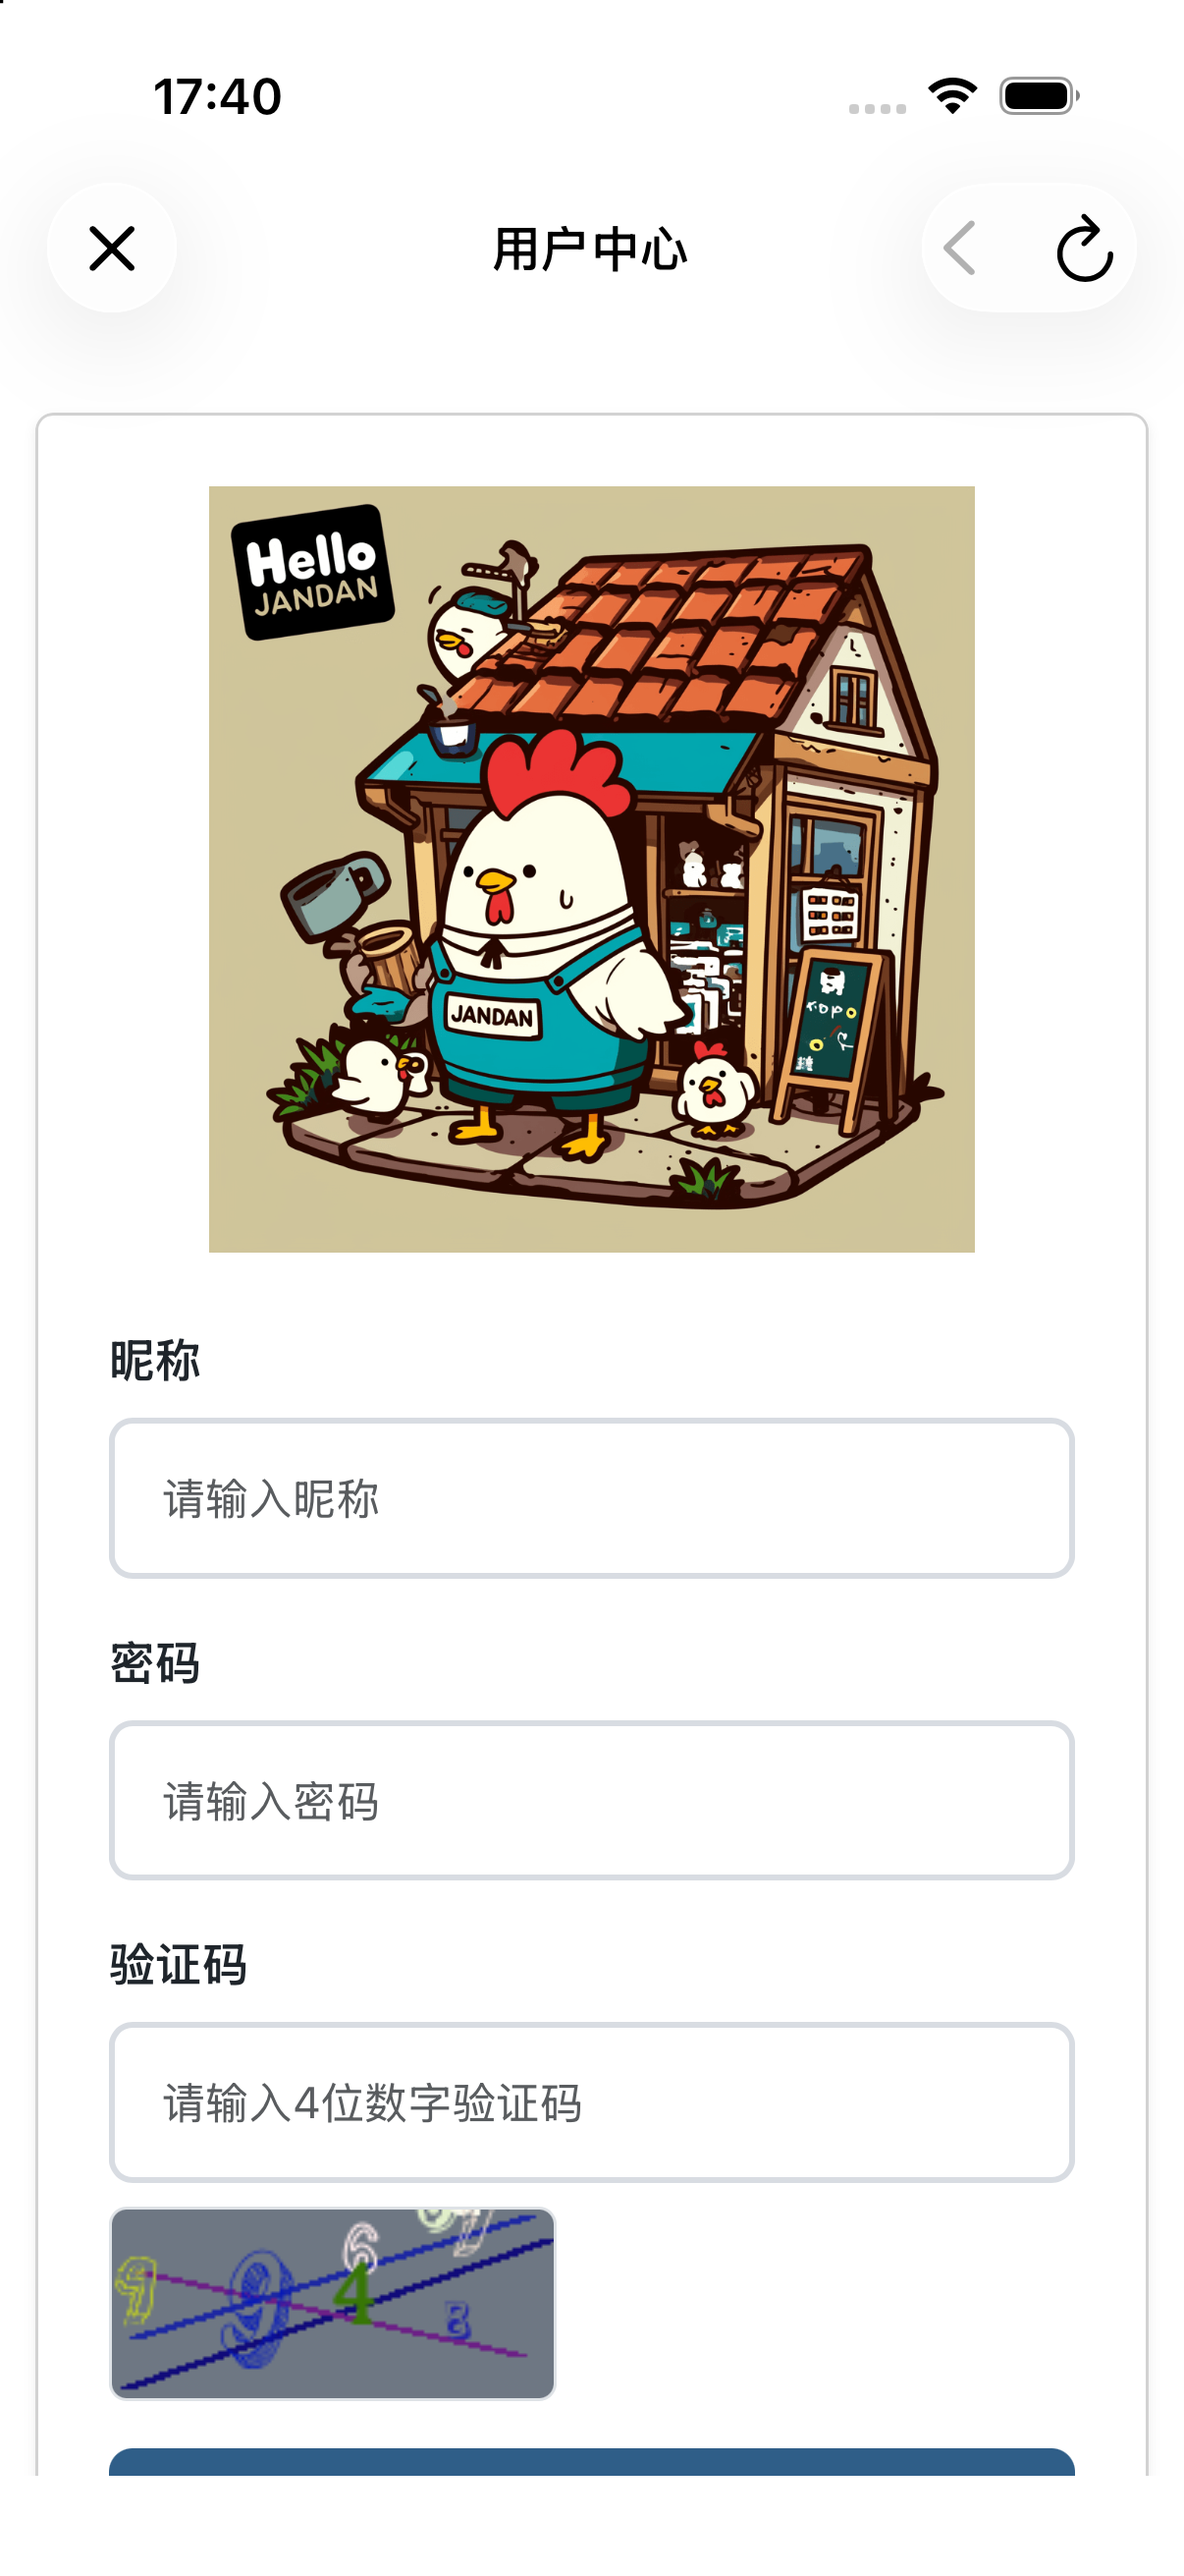
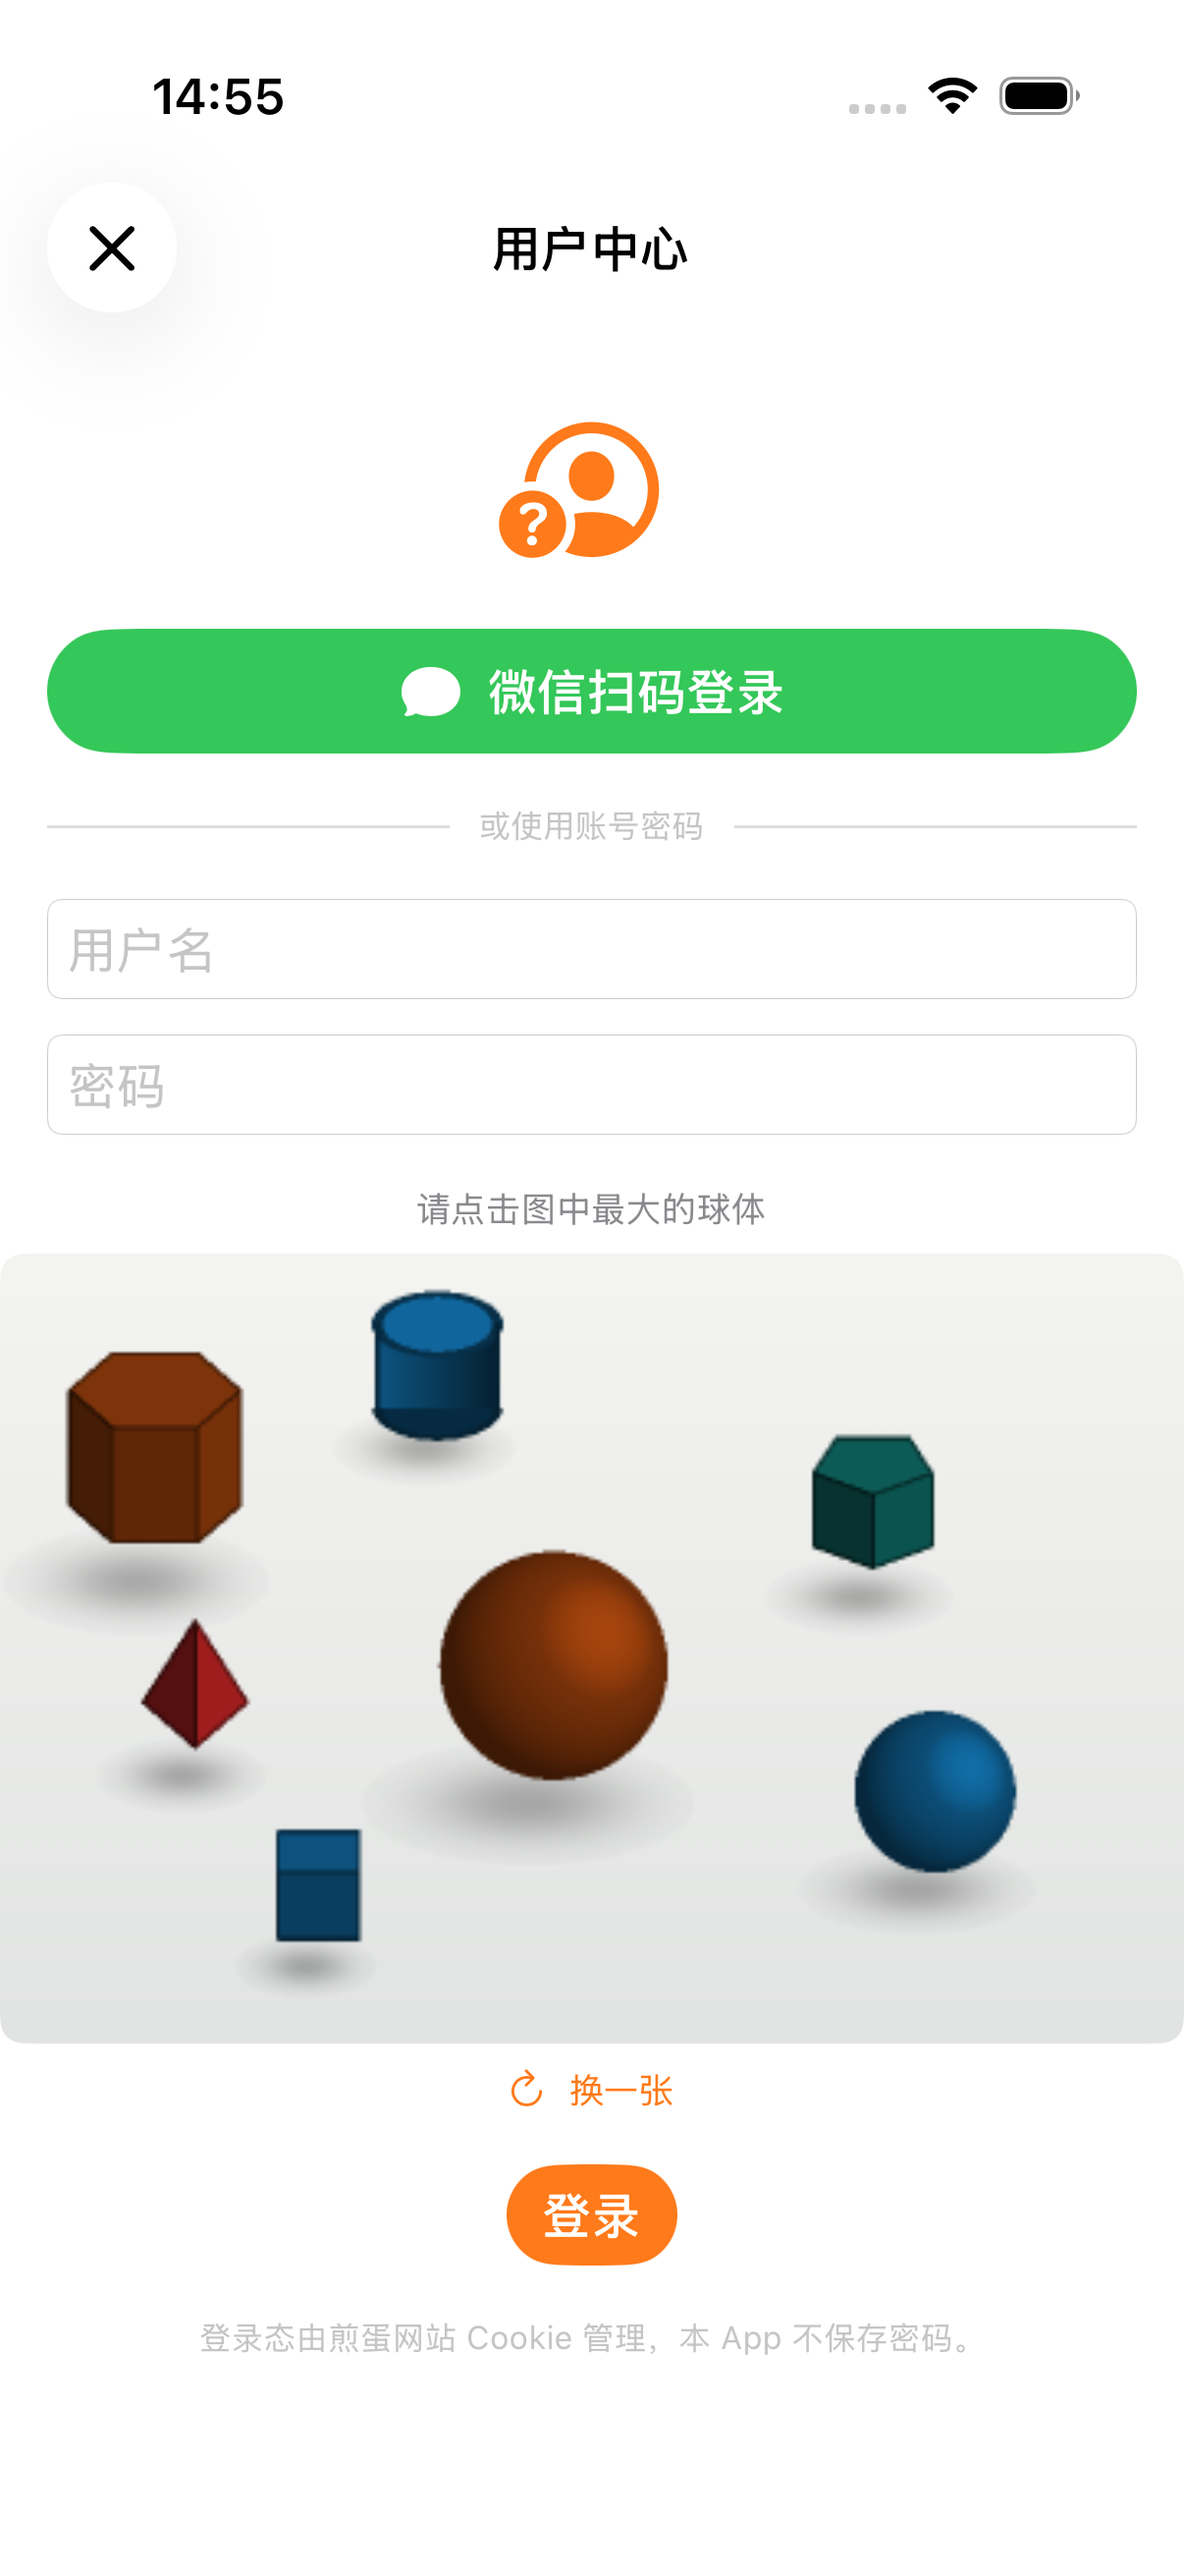
docs: 更新 README 全文并替换为当前原生界面截图

diff --git a/README.md b/README.md
@@ -8,32 +8,37 @@
 
 ## 效果
 
-| 首页（浅色） | 夜间模式 | 用户中心（独立页） |
-| :---: | :---: | :---: |
-| <img src="docs/screenshots/home.png" width="230" alt="首页"> | <img src="docs/screenshots/dark.png" width="230" alt="夜间模式"> | <img src="docs/screenshots/account.png" width="230" alt="用户中心"> |
+iPhone 17 Pro / iOS 26.5 模拟器实拍（2026-11-27），当前原生三频道界面 + 系统 `TabView` 液态玻璃：
 
-截图为旧版 WebView 架构存档，仅作视觉参考；当前界面已是原生三频道布局。
+| 首页 | 无聊图（图片流） | 夜间模式 |
+| :---: | :---: | :---: |
+| <img src="docs/screenshots/home.png" width="220" alt="首页"> | <img src="docs/screenshots/photo.png" width="220" alt="无聊图"> | <img src="docs/screenshots/dark.png" width="220" alt="夜间模式"> |
+
+| 设置 | 用户中心（未登录时的登录页） |
+| :---: | :---: |
+| <img src="docs/screenshots/settings.png" width="220" alt="设置"> | <img src="docs/screenshots/account.png" width="220" alt="用户中心"> |
 
 ## 功能
 
 **频道与阅读**
 
 - 原生 `TabView`（iOS 18+ 自动液态玻璃）：首页 / 无聊图 / 女装 + 设置，共 4 个 Tab；每个频道独立 `FeedStore` 与 `NavigationStack`，切走再切回保留列表与浏览栈。
-- 首页按日期分组（Section header 吸顶），左侧大号评论数 + 标题 / 摘要 / 吐槽预览；图片流按原比例完整展开、不裁剪、不进全屏查看器。
-- 滚动到底自动翻页（带 350ms 去抖），下拉刷新，后台每分钟检查新内容并显示「有新内容」浮层。
-- 评论在图片下方**原地展开**，以评论区为锚点滚动；展开期间暂停预加载，避免行高变化打断滚动。
+- 首页按日期分组（Section header 吸顶），左侧大号评论数 + 标题 / 摘要 / 吐槽预览，不显示图片；图片流按原比例完整展开、不裁剪、不进全屏查看器。
+- 滚动到底自动翻页，下拉刷新，后台每分钟检查新内容并显示「有新内容」浮层。
+- 评论在图片下方**就地展开**：页面滚动位置不变，只向下长出评论行与输入框，顶部标题和图片不动；短暂延迟翻页，避免行高变化打断阅读。
 - 正文按 HTML 顺序渲染文字 / 图片 / 链接，支持常用 HTML 实体；正文字号 90%–130% 可调，夜间模式独立生效。
 
 **图片与 GIF**
 
 - GIF 默认只加载 600px 静态帧并暂停，点击后才加载同名 mp4 静音循环播放；老 CDN 无 mp4 时回退逐帧解码。
-- 长按分享下载 **large 原图**（GIF 分享动画版本）后交给系统分享面板，不分享链接或降采样图。
+- 长按分享下载 **large 原图**（GIF 分享动画版本）后交给系统分享面板，多图一次全部分享，不分享链接或降采样图。
 - 统一图片缓存：64MB 内存 + 512MB 磁盘 `URLCache`、解码位图 `NSCache`（按位图字节计费）、mp4 本地副本；设置页可查看占用并一键清除。
 
 **账号与互动**
 
-- 账号密码登录：图选验证码 → **Keccak-256** 密码哈希（站点实际用 `CryptoJS.SHA3(...,{outputLength:256})`，不是 FIPS 202 SHA3）→ Cookie 登录态；密码至少 6 位。
+- 账号密码登录：图选验证码 → **Keccak-256** 密码哈希（站点实际用 `CryptoJS.SHA3(...,{outputLength:256})`，不是 FIPS 202 SHA3）→ Cookie 登录态。
 - 微信扫码登录：App 内 `WKWebView` 打开网站扫码页，观察整条重定向链路并同步 Cookie，最后用 `/api/member/get_info` **实测登录态**才判定成功；退出登录同时清理 URLSession 与 WebView 两侧 Cookie。
+- 用户中心按站点位掩码展示真实身份（注册会员 1 / 核心会员 2 / 订阅会员 4 / 管理员 8，可叠加）：例如 `3` 显示「煎蛋核心会员、煎蛋注册会员」，不会误标成订阅会员；偏好云同步只对订阅位生效。
 - OO / XX 投票（请求成功后才更新数字，重复投票只给轻提示）、评论 / 吐槽发布（审核后可见）、举报、按昵称或 ID 屏蔽作者。
 - 收藏、消息通知（3 分钟轮询 + 分页 + 已读闭环）、阅读历史、作者个人主页、VIP 偏好云同步（屏蔽名单 + 显示设置）。
 
@@ -43,9 +48,10 @@
 | --- | --- |
 | 密码登录恒失败 | 站点 Nuxt 登录页 `LDv1WFtq.js` 调用 `C1RStTSn.js` 导出的 `CryptoJS.SHA3(pwd,{outputLength:256})`；打包的 crypto-js `_doFinalize` 只有 `0x01` + `0x80`，是旧 Keccak 而非 FIPS 202 的 `0x06`。`API/SHA3.swift` 按 Keccak-256 实现，与同款库 10 组向量（含 rate 边界）逐条一致 |
 | 写操作「假成功」 | 站点多数接口返回 `{code,msg,data}`，投票等老接口返回 `{error,msg}`。`JDAPI.JDResponse.validate` 统一识别 `code / error / success / status` 后再判 HTTP 状态，覆盖发布、收藏、标记已读、偏好同步 |
-| 点开评论乱跳 | `ScrollViewReader` 只能定位 List 的**顶层 row**，行内子视图的 `.id` 永远滚不到。评论区因此提升为独立 row；同时禁止展开期间连锁翻页（内容高度变化会打断滚动） |
+| 点开评论乱跳 / 刷新后翻页卡死 | 旧实现用 `ScrollViewReader` 定位行内子 id（永远滚不到），还会在展开时连锁翻页。现在评论区作为当前条下方的独立 row 插入，不做任何 `scrollTo`，`contentOffset` 不动；`LoadMoreSentinel.suppressUntil` 短暂延迟翻页，`FeedStore.epoch` 作废旧页响应，最多跳过 4 个重复页后给出可点重试 |
+| 会员身份误显示为订阅会员 | `membership` 是位掩码而非等级数值。`JDMembership` 统一位定义与文案，用户中心列出所有命中位；`PrefsStore.canSync` 同样改用订阅位判断，不再用魔法数 `&4` |
 | 单击 Tab 置顶高度不对 | 系统只滚到小标题态的 `-adjustedContentInset.top`，大标题展开态差一个导航栏高度。`TabTopFix` 纯观察 window 点击：用真实 `UITabBar` frame 判区域、用 `UINavigationBar` 高度算多拉距离、排除 WKWebView 内部 scrollView，系统动画结束后补一次置顶并精确归位 |
-| 滑动卡死 | 解码位图缓存按「像素 × 4 × 帧数」计费（旧实现按压缩后的 `data.count`），单帧大图降采样到 1600px，日期格式化器统一静态缓存，分组计算改 O(n) |
+| 滑动卡死 | 解码位图缓存按「像素 × 4 × 帧数」计费（旧实现按压缩后的 `data.count`），单帧大图降采样到 1600px，日期格式化器统一静态缓存，分组计算改 O(n)；`Coordinator.publish(_:)` 把视图更新期间的 `@Published` 写入延后，消除 SwiftUI 紫色运行时警告 |
 | 「显示缩略图」开关无效 / 语义混乱 | `displayURL(thumbnail:)` 现在真正切到 `mw600`，关闭时取 `large`；该开关只管图片尺寸，不再顺带改变首页摘要行数 |
 
 ## 目录结构
@@ -64,8 +70,8 @@ JandanReader/
 │   │                               # ImageCache / PrefsStore / 缓存与同步
 │   └── Views/                      # HomeFeed / PhotoFeed / PostDetail / RichText /
 │                                   # InlineAnimatedImageView / Account / Settings 等
-├── Tests/JandanReaderTests.swift   # 纯逻辑回归：Keccak 向量、URL 推导、响应校验等
-└── docs/screenshots/               # 存档截图
+├── Tests/JandanReaderTests.swift   # 纯逻辑回归：哈希、URL、响应、分页、会员位掩码等 21 项
+└── docs/screenshots/               # 当前原生界面截图（home / photo / dark / settings / account）
 ```
 
 ## 快速开始
@@ -100,7 +106,7 @@ xcodebuild -project JandanReader.xcodeproj -scheme JandanReader \
   -configuration Release -destination 'generic/platform=iOS' \
   -derivedDataPath build-device CODE_SIGNING_ALLOWED=NO build
 
-# 单元测试（需要已启动的模拟器）
+# 单元测试（需要已启动的模拟器；当前 21 项全部通过）
 xcodebuild -project JandanReader.xcodeproj -scheme JandanReader \
   -configuration Debug -destination 'platform=iOS Simulator,name=iPhone 17 Pro' \
   -derivedDataPath build-test CODE_SIGNING_ALLOWED=NO test
@@ -111,15 +117,15 @@ cp -R build-device/Build/Products/Release-iphoneos/JandanReader.app build-device
 (cd build-device && zip -qr JandanReader-unsigned.ipa Payload)
 ```
 
-`build*/`、`*.ipa` 已在 `.gitignore` 中忽略。安装：Xcode 登录自己的 Apple ID 直接 Run（个人免费签名 7 天有效），或用 SideStore / AltStore 对未签名 ipa 重签名。未签名 ipa 不能直接装到设备上。
+各 build 目录与 `*.ipa` 已在 `.gitignore` 中忽略。安装：Xcode 登录自己的 Apple ID 直接 Run（个人免费签名 7 天有效），或用 SideStore / AltStore 对未签名 ipa 重签名。未签名 ipa 不能直接装到设备上。
 
 ## 已知限制
 
 - Xcode 27.2 编译真机 arm64 时 SwiftUI `@State` 宏插件会报 `malformed response`，因此 UI 状态统一用 `@StateObject` + `@Published` 容器（`Models/ViewState.swift`）规避。
 - `Info.plist` 保留 `NSAllowsArbitraryLoadsInWebContent`：微信扫码页的部分资源未验证全为 HTTPS，收紧会导致二维码加载失败。
 - 单击 Tab 置顶依赖 UIKit 视图层级探测，模拟器（iPhone 17 Pro / iOS 26.5）已验证，真机 / iPad / 横屏 / 动态字体下的手感仍建议实机确认。
-- 站点接口无版本约定，改版后需同步 `JDAPI` 的字段与信封解析；偏好云同步仅对订阅会员生效。
-- 单元测试覆盖纯逻辑（哈希、URL、响应、HTML、日期、表单编码），UI 交互回归仍需手工或 UI 测试。
+- 站点接口无版本约定，改版后需同步 `JDAPI` 的字段与信封解析；偏好云同步仅对订阅位（`membership & 4`）生效。
+- 单元测试覆盖纯逻辑（哈希、URL、响应、HTML、日期、表单编码、分页竞态、会员位掩码），UI 交互回归仍需手工或临时 UI 测试。
 
 ## 声明
 
